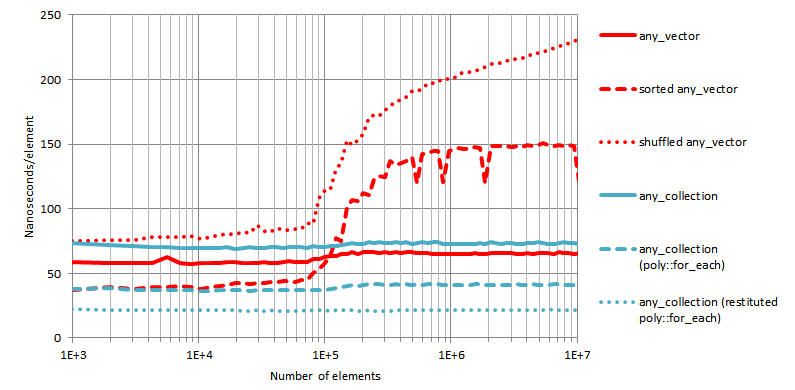
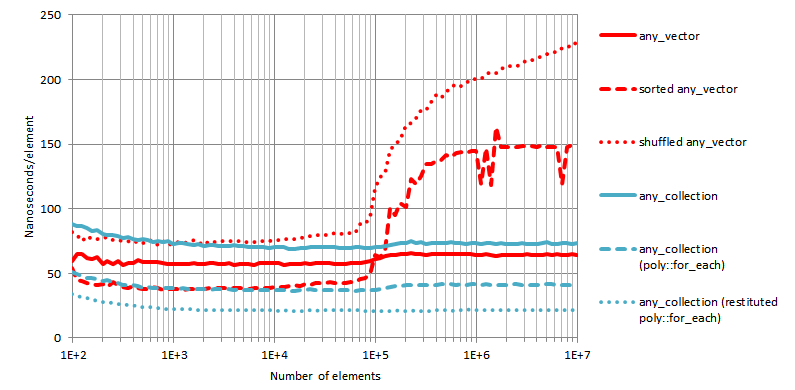
generated doc

diff --git a/doc/html/poly_collection/performance.html b/doc/html/poly_collection/performance.html
@@ -65,12 +65,12 @@
           in 64-bit (x64) release mode, same machine
         </li>
 <li class="listitem">
-          <span class="bold"><strong>GCC 5.2 x64</strong></span>: GCC 5.2 release mode, Linux
-          64 bit, Intel Core i7-3770K @3.5HGz
+          <span class="bold"><strong>GCC 6.0 x64</strong></span>: GCC 6.0 release mode, Xubuntu
+          17.04 x64, Intel Core i7-5820 @3.3GHz
         </li>
 <li class="listitem">
-          <span class="bold"><strong>Clang 3.9 x64</strong></span>: Clang 3.9 release mode,
-          Xubuntu 16.04 x64, Intel Core i7-5820 @3.3GHz
+          <span class="bold"><strong>Clang 4.0 x64</strong></span>: Clang 4.0 release mode,
+          same machine
         </li>
 </ul></div>
 <div class="section">
@@ -220,7 +220,7 @@
 </dl></div>
 <p>
         Tests measure the time taken to insert <span class="emphasis"><em>n</em></span> elements (<span class="emphasis"><em>n</em></span>
-        between 10<sup>3</sup> and 10<sup>7</sup>) from a source of values with types following the cyclic
+        between 10<sup>2</sup> and 10<sup>7</sup>) from a source of values with types following the cyclic
         sequence
       </p>
 <p>
@@ -247,9 +247,9 @@
 <dt><span class="section"><a href="performance.html#poly_collection.performance.insertion_tests.results_for_boost_base_collectio.environment0">Visual
           Studio 2015 x64</a></span></dt>
 <dt><span class="section"><a href="performance.html#poly_collection.performance.insertion_tests.results_for_boost_base_collectio.environment1">GCC
-          5.2 x64</a></span></dt>
+          6.0 x64</a></span></dt>
 <dt><span class="section"><a href="performance.html#poly_collection.performance.insertion_tests.results_for_boost_base_collectio.environment2">Clang
-          3.9 x64</a></span></dt>
+          4.0 x64</a></span></dt>
 </dl></div>
 <div class="section">
 <div class="titlepage"><div><div><h5 class="title">
@@ -277,24 +277,24 @@
 </div>
 <div class="section">
 <div class="titlepage"><div><div><h5 class="title">
-<a name="poly_collection.performance.insertion_tests.results_for_boost_base_collectio.environment1"></a><a class="link" href="performance.html#poly_collection.performance.insertion_tests.results_for_boost_base_collectio.environment1" title="GCC 5.2 x64">GCC
-          5.2 x64</a>
+<a name="poly_collection.performance.insertion_tests.results_for_boost_base_collectio.environment1"></a><a class="link" href="performance.html#poly_collection.performance.insertion_tests.results_for_boost_base_collectio.environment1" title="GCC 6.0 x64">GCC
+          6.0 x64</a>
 </h5></div></div></div>
 <p>
-            <span class="aligncenter"><span class="inlinemediaobject"><img src="img/insert_base_gcc52_x64.png"></span>
+            <span class="aligncenter"><span class="inlinemediaobject"><img src="img/insert_base_gcc60_x64.png"></span>
 </span>
-            <span class="aligncenter"><span class="bold"><strong>Insertion, GCC 5.2 x64</strong></span></span>
+            <span class="aligncenter"><span class="bold"><strong>Insertion, GCC 6.0 x64</strong></span></span>
           </p>
 </div>
 <div class="section">
 <div class="titlepage"><div><div><h5 class="title">
-<a name="poly_collection.performance.insertion_tests.results_for_boost_base_collectio.environment2"></a><a class="link" href="performance.html#poly_collection.performance.insertion_tests.results_for_boost_base_collectio.environment2" title="Clang 3.9 x64">Clang
-          3.9 x64</a>
+<a name="poly_collection.performance.insertion_tests.results_for_boost_base_collectio.environment2"></a><a class="link" href="performance.html#poly_collection.performance.insertion_tests.results_for_boost_base_collectio.environment2" title="Clang 4.0 x64">Clang
+          4.0 x64</a>
 </h5></div></div></div>
 <p>
-            <span class="aligncenter"><span class="inlinemediaobject"><img src="img/insert_base_clang39_x64.png"></span>
+            <span class="aligncenter"><span class="inlinemediaobject"><img src="img/insert_base_clang40_x64.png"></span>
 </span>
-            <span class="aligncenter"><span class="bold"><strong>Insertion, Clang 3.9
+            <span class="aligncenter"><span class="bold"><strong>Insertion, Clang 4.0
             x64</strong></span></span>
           </p>
 </div>
@@ -310,9 +310,9 @@
 <dt><span class="section"><a href="performance.html#poly_collection.performance.insertion_tests.results_for_boost_function_colle.environment0">Visual
           Studio 2015 x64</a></span></dt>
 <dt><span class="section"><a href="performance.html#poly_collection.performance.insertion_tests.results_for_boost_function_colle.environment1">GCC
-          5.2 x64</a></span></dt>
+          6.0 x64</a></span></dt>
 <dt><span class="section"><a href="performance.html#poly_collection.performance.insertion_tests.results_for_boost_function_colle.environment2">Clang
-          3.9 x64</a></span></dt>
+          4.0 x64</a></span></dt>
 </dl></div>
 <div class="section">
 <div class="titlepage"><div><div><h5 class="title">
@@ -340,24 +340,24 @@
 </div>
 <div class="section">
 <div class="titlepage"><div><div><h5 class="title">
-<a name="poly_collection.performance.insertion_tests.results_for_boost_function_colle.environment1"></a><a class="link" href="performance.html#poly_collection.performance.insertion_tests.results_for_boost_function_colle.environment1" title="GCC 5.2 x64">GCC
-          5.2 x64</a>
+<a name="poly_collection.performance.insertion_tests.results_for_boost_function_colle.environment1"></a><a class="link" href="performance.html#poly_collection.performance.insertion_tests.results_for_boost_function_colle.environment1" title="GCC 6.0 x64">GCC
+          6.0 x64</a>
 </h5></div></div></div>
 <p>
-            <span class="aligncenter"><span class="inlinemediaobject"><img src="img/insert_function_gcc52_x64.png"></span>
+            <span class="aligncenter"><span class="inlinemediaobject"><img src="img/insert_function_gcc60_x64.png"></span>
 </span>
-            <span class="aligncenter"><span class="bold"><strong>Insertion, GCC 5.2 x64</strong></span></span>
+            <span class="aligncenter"><span class="bold"><strong>Insertion, GCC 6.0 x64</strong></span></span>
           </p>
 </div>
 <div class="section">
 <div class="titlepage"><div><div><h5 class="title">
-<a name="poly_collection.performance.insertion_tests.results_for_boost_function_colle.environment2"></a><a class="link" href="performance.html#poly_collection.performance.insertion_tests.results_for_boost_function_colle.environment2" title="Clang 3.9 x64">Clang
-          3.9 x64</a>
+<a name="poly_collection.performance.insertion_tests.results_for_boost_function_colle.environment2"></a><a class="link" href="performance.html#poly_collection.performance.insertion_tests.results_for_boost_function_colle.environment2" title="Clang 4.0 x64">Clang
+          4.0 x64</a>
 </h5></div></div></div>
 <p>
-            <span class="aligncenter"><span class="inlinemediaobject"><img src="img/insert_function_clang39_x64.png"></span>
+            <span class="aligncenter"><span class="inlinemediaobject"><img src="img/insert_function_clang40_x64.png"></span>
 </span>
-            <span class="aligncenter"><span class="bold"><strong>Insertion, Clang 3.9
+            <span class="aligncenter"><span class="bold"><strong>Insertion, Clang 4.0
             x64</strong></span></span>
           </p>
 </div>
@@ -373,9 +373,9 @@
 <dt><span class="section"><a href="performance.html#poly_collection.performance.insertion_tests.results_for_boost_any_collection.environment0">Visual
           Studio 2015 x64</a></span></dt>
 <dt><span class="section"><a href="performance.html#poly_collection.performance.insertion_tests.results_for_boost_any_collection.environment1">GCC
-          5.2 x64</a></span></dt>
+          6.0 x64</a></span></dt>
 <dt><span class="section"><a href="performance.html#poly_collection.performance.insertion_tests.results_for_boost_any_collection.environment2">Clang
-          3.9 x64</a></span></dt>
+          4.0 x64</a></span></dt>
 </dl></div>
 <div class="section">
 <div class="titlepage"><div><div><h5 class="title">
@@ -403,24 +403,24 @@
 </div>
 <div class="section">
 <div class="titlepage"><div><div><h5 class="title">
-<a name="poly_collection.performance.insertion_tests.results_for_boost_any_collection.environment1"></a><a class="link" href="performance.html#poly_collection.performance.insertion_tests.results_for_boost_any_collection.environment1" title="GCC 5.2 x64">GCC
-          5.2 x64</a>
+<a name="poly_collection.performance.insertion_tests.results_for_boost_any_collection.environment1"></a><a class="link" href="performance.html#poly_collection.performance.insertion_tests.results_for_boost_any_collection.environment1" title="GCC 6.0 x64">GCC
+          6.0 x64</a>
 </h5></div></div></div>
 <p>
-            <span class="aligncenter"><span class="inlinemediaobject"><img src="img/insert_any_gcc52_x64.png"></span>
+            <span class="aligncenter"><span class="inlinemediaobject"><img src="img/insert_any_gcc60_x64.png"></span>
 </span>
-            <span class="aligncenter"><span class="bold"><strong>Insertion, GCC 5.2 x64</strong></span></span>
+            <span class="aligncenter"><span class="bold"><strong>Insertion, GCC 6.0 x64</strong></span></span>
           </p>
 </div>
 <div class="section">
 <div class="titlepage"><div><div><h5 class="title">
-<a name="poly_collection.performance.insertion_tests.results_for_boost_any_collection.environment2"></a><a class="link" href="performance.html#poly_collection.performance.insertion_tests.results_for_boost_any_collection.environment2" title="Clang 3.9 x64">Clang
-          3.9 x64</a>
+<a name="poly_collection.performance.insertion_tests.results_for_boost_any_collection.environment2"></a><a class="link" href="performance.html#poly_collection.performance.insertion_tests.results_for_boost_any_collection.environment2" title="Clang 4.0 x64">Clang
+          4.0 x64</a>
 </h5></div></div></div>
 <p>
-            <span class="aligncenter"><span class="inlinemediaobject"><img src="img/insert_any_clang39_x64.png"></span>
+            <span class="aligncenter"><span class="inlinemediaobject"><img src="img/insert_any_clang40_x64.png"></span>
 </span>
-            <span class="aligncenter"><span class="bold"><strong>Insertion, Clang 3.9
+            <span class="aligncenter"><span class="bold"><strong>Insertion, Clang 4.0
             x64</strong></span></span>
           </p>
 </div>
@@ -441,7 +441,7 @@
 </dl></div>
 <p>
         Tests measure the time taken to traverse a container of size <span class="emphasis"><em>n</em></span>
-        (<span class="emphasis"><em>n</em></span> between 10<sup>3</sup> and 10<sup>7</sup>) and execute an operation on each
+        (<span class="emphasis"><em>n</em></span> between 10<sup>2</sup> and 10<sup>7</sup>) and execute an operation on each
         of its elements. The operation for <code class="computeroutput"><span class="identifier">boost</span><span class="special">::</span><span class="identifier">base_collection</span></code>
         and <code class="computeroutput"><span class="identifier">boost</span><span class="special">::</span><span class="identifier">function_collection</span></code> (and the associated
         baseline containers) is defined as
@@ -528,9 +528,9 @@
 <dt><span class="section"><a href="performance.html#poly_collection.performance.processing_tests.results_for_boost_base_collectio.environment0">Visual
           Studio 2015 x64</a></span></dt>
 <dt><span class="section"><a href="performance.html#poly_collection.performance.processing_tests.results_for_boost_base_collectio.environment1">GCC
-          5.2 x64</a></span></dt>
+          6.0 x64</a></span></dt>
 <dt><span class="section"><a href="performance.html#poly_collection.performance.processing_tests.results_for_boost_base_collectio.environment2">Clang
-          3.9 x64</a></span></dt>
+          4.0 x64</a></span></dt>
 </dl></div>
 <div class="section">
 <div class="titlepage"><div><div><h5 class="title">
@@ -558,25 +558,25 @@
 </div>
 <div class="section">
 <div class="titlepage"><div><div><h5 class="title">
-<a name="poly_collection.performance.processing_tests.results_for_boost_base_collectio.environment1"></a><a class="link" href="performance.html#poly_collection.performance.processing_tests.results_for_boost_base_collectio.environment1" title="GCC 5.2 x64">GCC
-          5.2 x64</a>
+<a name="poly_collection.performance.processing_tests.results_for_boost_base_collectio.environment1"></a><a class="link" href="performance.html#poly_collection.performance.processing_tests.results_for_boost_base_collectio.environment1" title="GCC 6.0 x64">GCC
+          6.0 x64</a>
 </h5></div></div></div>
 <p>
-            <span class="aligncenter"><span class="inlinemediaobject"><img src="img/for_each_base_gcc52_x64.png"></span>
+            <span class="aligncenter"><span class="inlinemediaobject"><img src="img/for_each_base_gcc60_x64.png"></span>
 </span>
-            <span class="aligncenter"><span class="bold"><strong>Processing, GCC 5.2
+            <span class="aligncenter"><span class="bold"><strong>Processing, GCC 6.0
             x64</strong></span></span>
           </p>
 </div>
 <div class="section">
 <div class="titlepage"><div><div><h5 class="title">
-<a name="poly_collection.performance.processing_tests.results_for_boost_base_collectio.environment2"></a><a class="link" href="performance.html#poly_collection.performance.processing_tests.results_for_boost_base_collectio.environment2" title="Clang 3.9 x64">Clang
-          3.9 x64</a>
+<a name="poly_collection.performance.processing_tests.results_for_boost_base_collectio.environment2"></a><a class="link" href="performance.html#poly_collection.performance.processing_tests.results_for_boost_base_collectio.environment2" title="Clang 4.0 x64">Clang
+          4.0 x64</a>
 </h5></div></div></div>
 <p>
-            <span class="aligncenter"><span class="inlinemediaobject"><img src="img/for_each_base_clang39_x64.png"></span>
+            <span class="aligncenter"><span class="inlinemediaobject"><img src="img/for_each_base_clang40_x64.png"></span>
 </span>
-            <span class="aligncenter"><span class="bold"><strong>Processing, Clang 3.9
+            <span class="aligncenter"><span class="bold"><strong>Processing, Clang 4.0
             x64</strong></span></span>
           </p>
 </div>
@@ -592,9 +592,9 @@
 <dt><span class="section"><a href="performance.html#poly_collection.performance.processing_tests.results_for_boost_function_colle.environment0">Visual
           Studio 2015 x64</a></span></dt>
 <dt><span class="section"><a href="performance.html#poly_collection.performance.processing_tests.results_for_boost_function_colle.environment1">GCC
-          5.2 x64</a></span></dt>
+          6.0 x64</a></span></dt>
 <dt><span class="section"><a href="performance.html#poly_collection.performance.processing_tests.results_for_boost_function_colle.environment2">Clang
-          3.9 x64</a></span></dt>
+          4.0 x64</a></span></dt>
 </dl></div>
 <div class="section">
 <div class="titlepage"><div><div><h5 class="title">
@@ -622,25 +622,25 @@
 </div>
 <div class="section">
 <div class="titlepage"><div><div><h5 class="title">
-<a name="poly_collection.performance.processing_tests.results_for_boost_function_colle.environment1"></a><a class="link" href="performance.html#poly_collection.performance.processing_tests.results_for_boost_function_colle.environment1" title="GCC 5.2 x64">GCC
-          5.2 x64</a>
+<a name="poly_collection.performance.processing_tests.results_for_boost_function_colle.environment1"></a><a class="link" href="performance.html#poly_collection.performance.processing_tests.results_for_boost_function_colle.environment1" title="GCC 6.0 x64">GCC
+          6.0 x64</a>
 </h5></div></div></div>
 <p>
-            <span class="aligncenter"><span class="inlinemediaobject"><img src="img/for_each_function_gcc52_x64.png"></span>
+            <span class="aligncenter"><span class="inlinemediaobject"><img src="img/for_each_function_gcc60_x64.png"></span>
 </span>
-            <span class="aligncenter"><span class="bold"><strong>Processing, GCC 5.2
+            <span class="aligncenter"><span class="bold"><strong>Processing, GCC 6.0
             x64</strong></span></span>
           </p>
 </div>
 <div class="section">
 <div class="titlepage"><div><div><h5 class="title">
-<a name="poly_collection.performance.processing_tests.results_for_boost_function_colle.environment2"></a><a class="link" href="performance.html#poly_collection.performance.processing_tests.results_for_boost_function_colle.environment2" title="Clang 3.9 x64">Clang
-          3.9 x64</a>
+<a name="poly_collection.performance.processing_tests.results_for_boost_function_colle.environment2"></a><a class="link" href="performance.html#poly_collection.performance.processing_tests.results_for_boost_function_colle.environment2" title="Clang 4.0 x64">Clang
+          4.0 x64</a>
 </h5></div></div></div>
 <p>
-            <span class="aligncenter"><span class="inlinemediaobject"><img src="img/for_each_function_clang39_x64.png"></span>
+            <span class="aligncenter"><span class="inlinemediaobject"><img src="img/for_each_function_clang40_x64.png"></span>
 </span>
-            <span class="aligncenter"><span class="bold"><strong>Processing, Clang 3.9
+            <span class="aligncenter"><span class="bold"><strong>Processing, Clang 4.0
             x64</strong></span></span>
           </p>
 </div>
@@ -656,9 +656,9 @@
 <dt><span class="section"><a href="performance.html#poly_collection.performance.processing_tests.results_for_boost_any_collection.environment0">Visual
           Studio 2015 x64</a></span></dt>
 <dt><span class="section"><a href="performance.html#poly_collection.performance.processing_tests.results_for_boost_any_collection.environment1">GCC
-          5.2 x64</a></span></dt>
+          6.0 x64</a></span></dt>
 <dt><span class="section"><a href="performance.html#poly_collection.performance.processing_tests.results_for_boost_any_collection.environment2">Clang
-          3.9 x64</a></span></dt>
+          4.0 x64</a></span></dt>
 </dl></div>
 <div class="section">
 <div class="titlepage"><div><div><h5 class="title">
@@ -686,25 +686,25 @@
 </div>
 <div class="section">
 <div class="titlepage"><div><div><h5 class="title">
-<a name="poly_collection.performance.processing_tests.results_for_boost_any_collection.environment1"></a><a class="link" href="performance.html#poly_collection.performance.processing_tests.results_for_boost_any_collection.environment1" title="GCC 5.2 x64">GCC
-          5.2 x64</a>
+<a name="poly_collection.performance.processing_tests.results_for_boost_any_collection.environment1"></a><a class="link" href="performance.html#poly_collection.performance.processing_tests.results_for_boost_any_collection.environment1" title="GCC 6.0 x64">GCC
+          6.0 x64</a>
 </h5></div></div></div>
 <p>
-            <span class="aligncenter"><span class="inlinemediaobject"><img src="img/for_each_any_gcc52_x64.png"></span>
+            <span class="aligncenter"><span class="inlinemediaobject"><img src="img/for_each_any_gcc60_x64.png"></span>
 </span>
-            <span class="aligncenter"><span class="bold"><strong>Processing, GCC 5.2
+            <span class="aligncenter"><span class="bold"><strong>Processing, GCC 6.0
             x64</strong></span></span>
           </p>
 </div>
 <div class="section">
 <div class="titlepage"><div><div><h5 class="title">
-<a name="poly_collection.performance.processing_tests.results_for_boost_any_collection.environment2"></a><a class="link" href="performance.html#poly_collection.performance.processing_tests.results_for_boost_any_collection.environment2" title="Clang 3.9 x64">Clang
-          3.9 x64</a>
+<a name="poly_collection.performance.processing_tests.results_for_boost_any_collection.environment2"></a><a class="link" href="performance.html#poly_collection.performance.processing_tests.results_for_boost_any_collection.environment2" title="Clang 4.0 x64">Clang
+          4.0 x64</a>
 </h5></div></div></div>
 <p>
-            <span class="aligncenter"><span class="inlinemediaobject"><img src="img/for_each_any_clang39_x64.png"></span>
+            <span class="aligncenter"><span class="inlinemediaobject"><img src="img/for_each_any_clang40_x64.png"></span>
 </span>
-            <span class="aligncenter"><span class="bold"><strong>Processing, Clang 3.9
+            <span class="aligncenter"><span class="bold"><strong>Processing, Clang 4.0
             x64</strong></span></span>
           </p>
 </div>

diff --git a/doc/html/index.html b/doc/html/index.html
@@ -195,7 +195,7 @@
 </div>
 </div>
 <table xmlns:rev="http://www.cs.rpi.edu/~gregod/boost/tools/doc/revision" width="100%"><tr>
-<td align="left"><p><small>Last revised: June 25, 2017 at 09:59:22 GMT</small></p></td>
+<td align="left"><p><small>Last revised: June 27, 2017 at 19:38:01 GMT</small></p></td>
 <td align="right"><div class="copyright-footer"></div></td>
 </tr></table>
 <hr>
